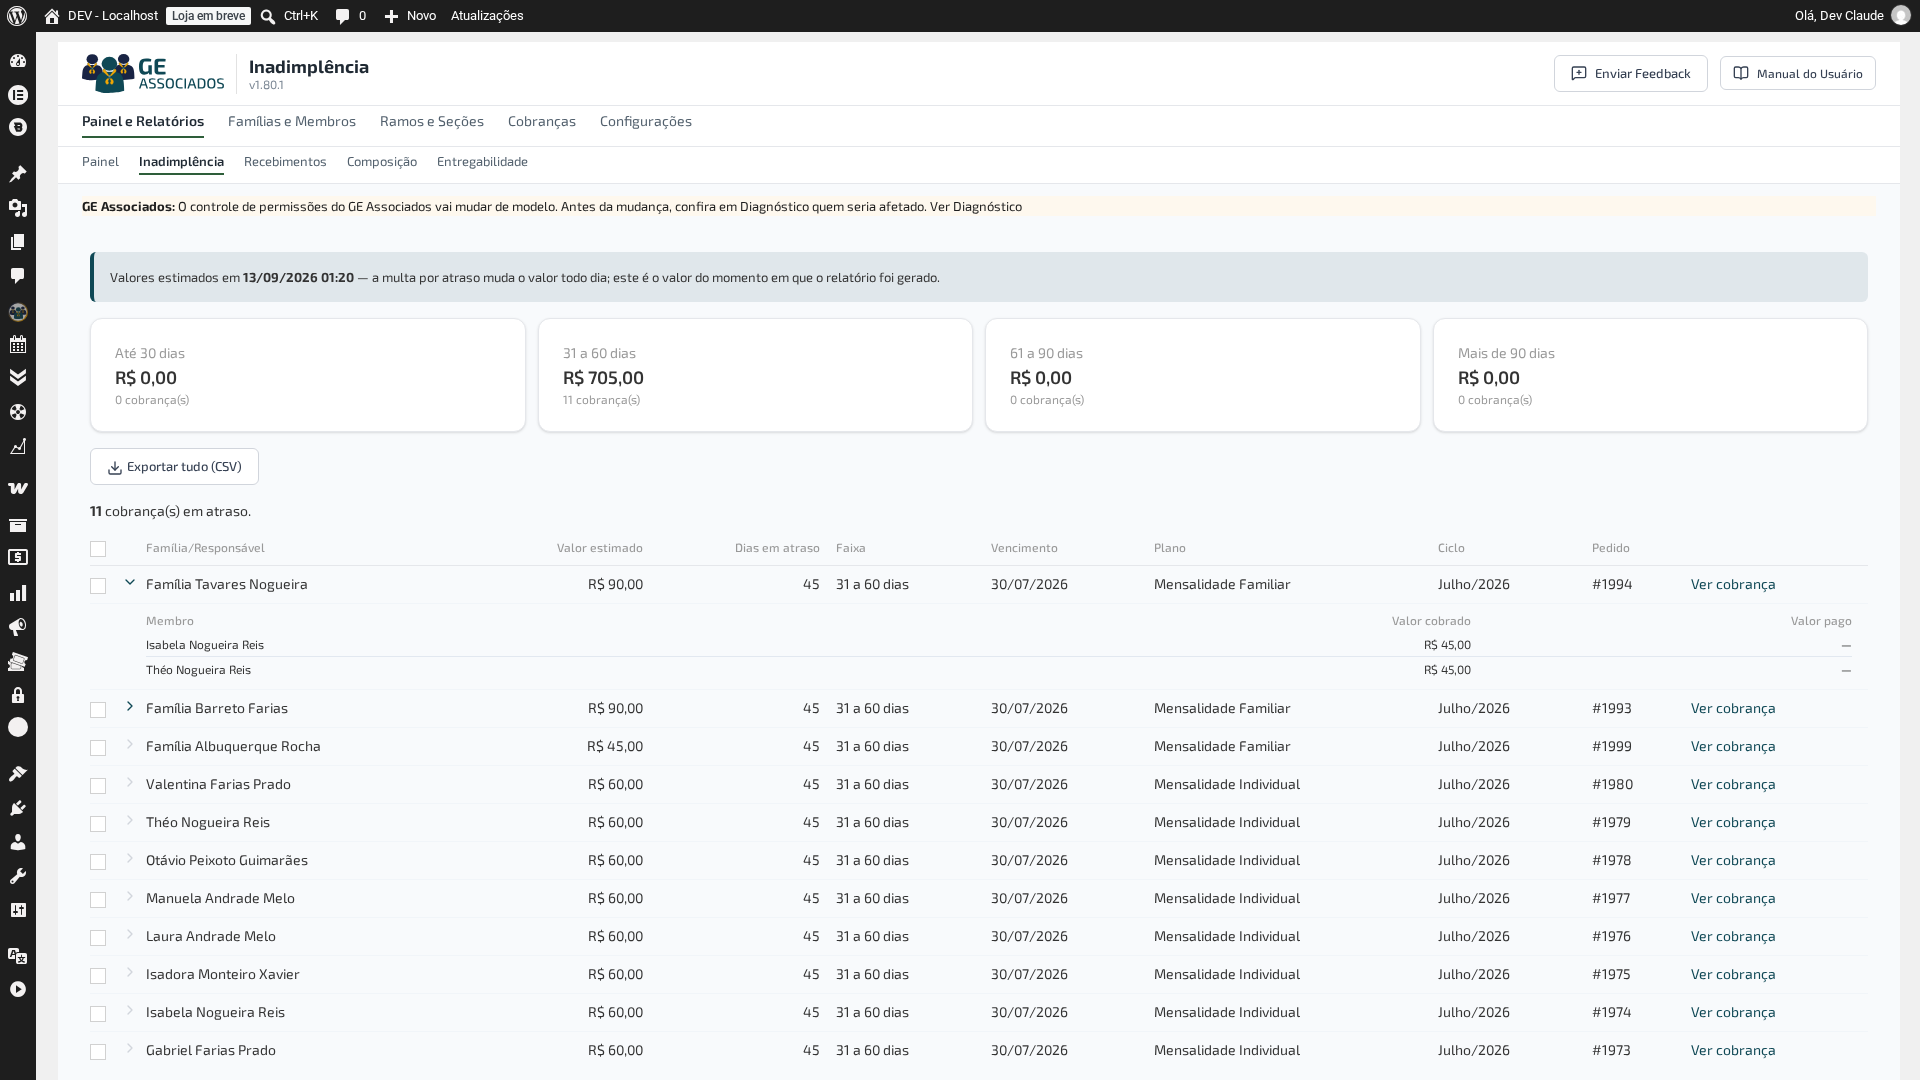
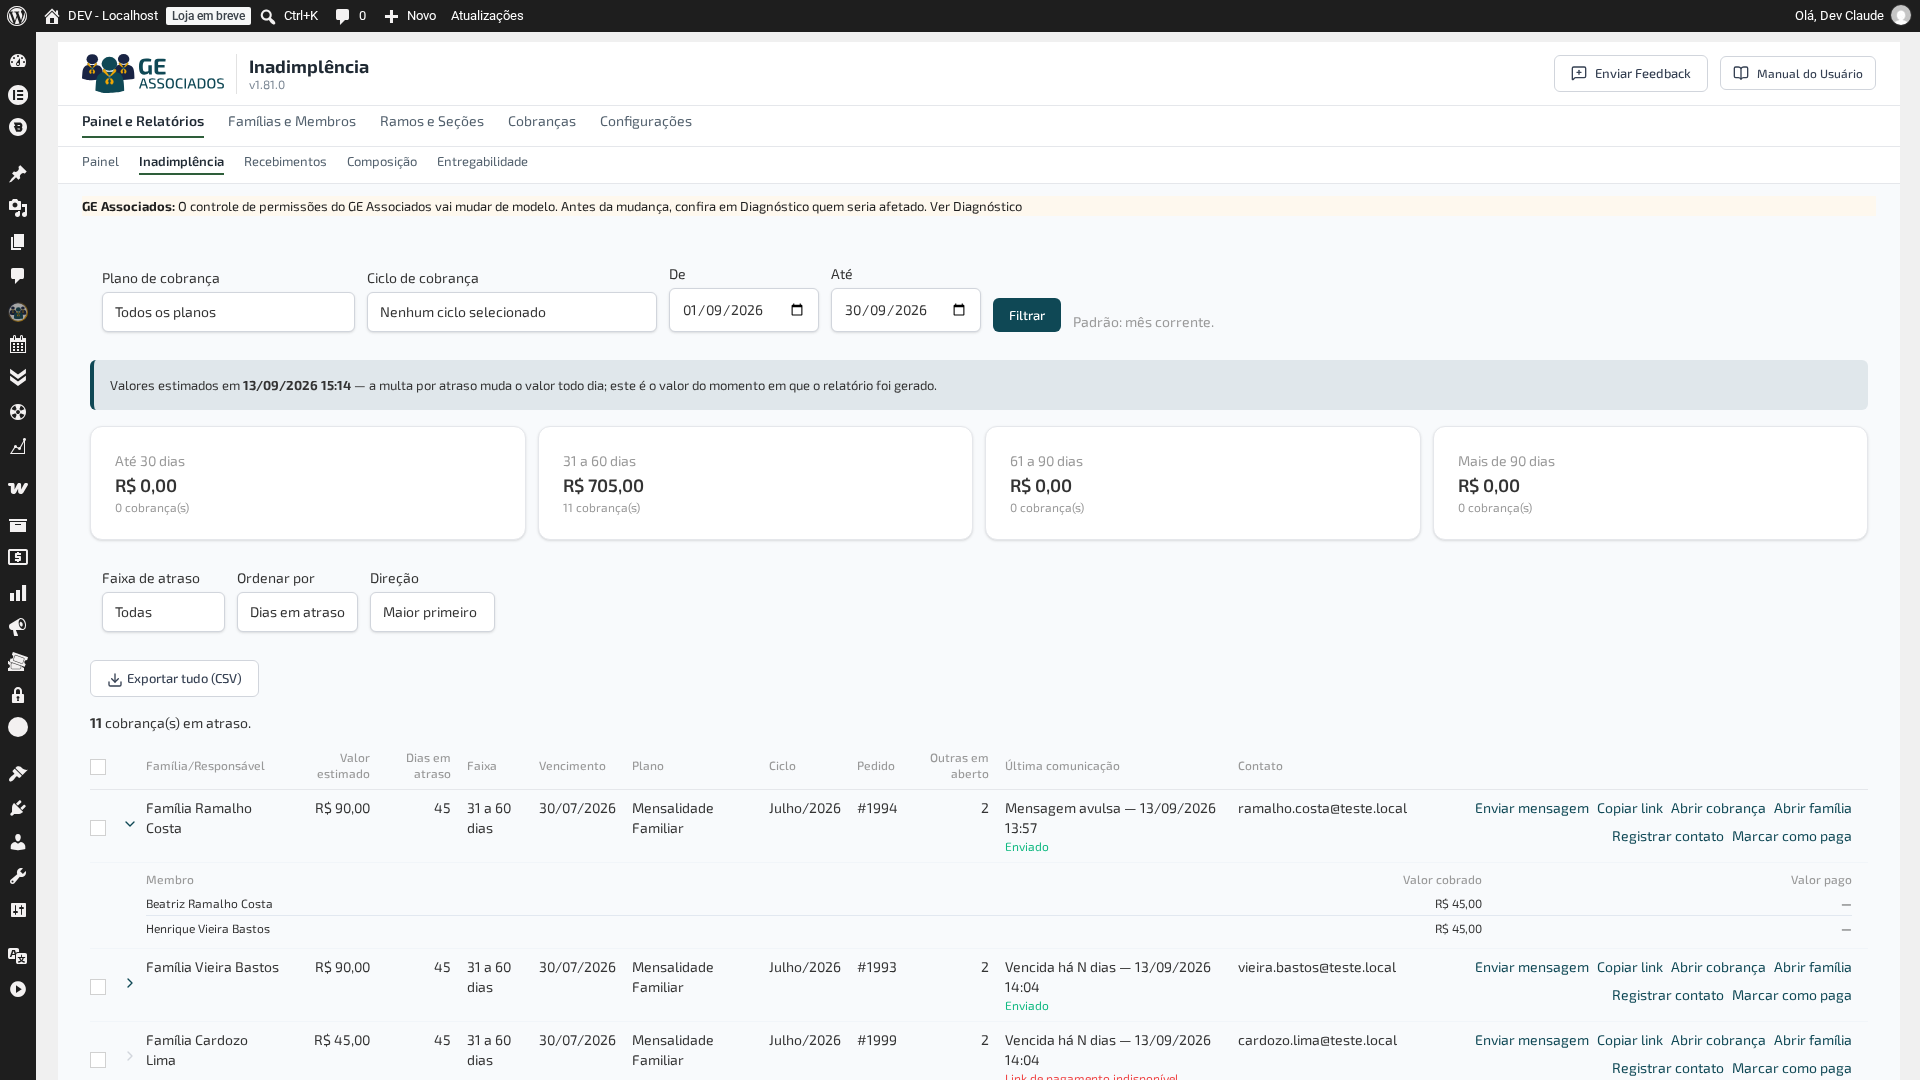
docs(manual): publica 2026-09-13

diff --git a/modulos/inadimplencia.md b/modulos/inadimplencia.md
@@ -8,19 +8,41 @@ nav_order: 2
 
 **Menu:** Painel e Relatórios → aba Inadimplência
 
-Lista de cobranças em atraso, para a tesouraria priorizar quem cobrar primeiro.
+Lista de cobranças em atraso, para a tesouraria priorizar quem cobrar primeiro — e agir
+direto na linha, sem precisar abrir a cobrança para cada ação.
 
 ![Relatório de inadimplência com valor estimado e faixa de atraso](/assets/img/relatorio-inadimplencia.png)
 
+## Por que isto importa
+
+Cobrar atraso é trabalho repetitivo: identificar quem deve, mandar um lembrete, anotar que
+ligou, marcar como paga quando o dinheiro chegar por fora do sistema. Antes, cada um desses
+passos exigia abrir a cobrança ou trocar de tela. Agora a lista de inadimplentes é o lugar
+onde você faz a rotina inteira — inclusive mandar um texto próprio para uma família, com os
+dados da cobrança dela já prontos.
+
+## Filtros
+
+- **Plano, ciclo e período** — o mesmo recorte compartilhado das outras abas de
+  Relatórios (veja [Painel](/modulos/painel/#o-que-você-vê)): filtrar aqui e trocar de aba
+  mantém a escolha.
+- Com um **período** escolhido (por data ou por ciclo), a lista mostra as cobranças **com
+  vencimento dentro daquele período que continuam sem pagamento hoje** — não é o histórico
+  de quem já esteve em atraso e já pagou depois. Sem período, é toda a inadimplência atual.
+
 ## O que você vê
 
-Cada linha traz o **valor estimado no dia da geração do relatório** — não é fixo, porque a
-multa por atraso muda a cada dia —, os **dias de atraso**, a **faixa de atraso**, o
-**vencimento**, o **plano**, o **ciclo** e o **pedido** (o número do pedido WooCommerce).
+Cada linha traz o **valor atualizado no dia** (não é fixo, porque a multa por atraso muda a
+cada dia), os **dias de atraso**, a **faixa de atraso**, o **vencimento**, o **plano**, o
+**ciclo**, o **pedido** (o número do pedido WooCommerce), **outras cobranças em aberto**
+da mesma família e a **última comunicação enviada**, com o contato usado.
 
-{: .note }
-Esta tela não tem filtro de período. Se você quer recortar a inadimplência por uma data
-específica, use [Recebimentos](/modulos/recebimentos/).
+{: .important }
+**"Enviado" na última comunicação quer dizer que o servidor aceitou o envio — não que a
+família já leu, nem que a mensagem chegou de fato à caixa de entrada.** Para saber se um
+envio específico realmente chegou ou falhou, confira em
+[Entregabilidade](/modulos/entregabilidade/). Quando a família não tem e-mail cadastrado, a
+coluna mostra **"Sem e-mail"** em vez de uma data.
 
 {: .note }
 Cobrança **[Sem valor a pagar](/modulos/cobrancas/#cobrança-sem-valor-a-pagar)** nunca
@@ -38,6 +60,87 @@ cobrado dele. Cobrança de **um membro só** continua linha simples, sem seta.
 Útil na hora de ligar para a família: em vez de "vocês devem R$ 90,00", você já sabe que
 são dois jovens, R$ 45,00 cada — e qual dos dois entrou na família depois, se um dos
 valores destoar do outro.
+
+## Ações por cobrança
+
+![Linha da lista de inadimplência com as ações disponíveis: enviar mensagem, copiar link, abrir cobrança, abrir família, registrar contato e marcar como paga](/assets/img/inadimplencia-acoes-linha.png)
+
+Cada linha tem, conforme a sua permissão:
+
+- **Enviar mensagem** — abre o modal de mensagem (veja a seção abaixo).
+- **Copiar link de pagamento** — cola direto no WhatsApp ou passa de viva voz.
+- **Registrar contato** — anota que você ligou, mandou mensagem por fora do sistema ou
+  conversou pessoalmente, sem disparar e-mail nenhum. Fica no histórico da cobrança.
+- **Marcar como paga** — a mesma ação, com a mesma confirmação, que já existe no detalhe da
+  cobrança (veja [Cobranças](/modulos/cobrancas/)).
+- **Abrir cobrança** — leva ao detalhe completo.
+- **Abrir família** — leva direto ao cadastro da família, **já em modo de edição**, e volta
+  para a Inadimplência com o filtro que você tinha ao sair.
+
+{: .note }
+Quem só tem permissão de **ver relatórios** enxerga a lista, mas não vê os botões que
+mudam alguma coisa (enviar mensagem, registrar contato, marcar como paga, abrir família
+para editar). É preciso permissão de **gerir cobranças** — se um botão que você esperava
+não aparece, é esse o motivo mais provável.
+
+### Enviar mensagem
+
+![Modal de enviar mensagem aberto, com o menu mostrando as três opções: lembrete de atraso, aviso formal e texto livre](/assets/img/inadimplencia-modal-mensagem.png)
+
+Três opções:
+
+- **Lembrete de atraso** — o modelo que já existe em
+  [Comunicação](/modulos/comunicacao/#editar-modelo), com pré-visualização antes de enviar.
+- **Aviso formal** — idem, o modelo de cobrança formal.
+- **Texto livre** — um texto seu, escrito na hora, para aquela família.
+
+O e-mail sai no mesmo layout dos demais (cabeçalho, rodapé com o contato do financeiro) e
+o **link de pagamento da cobrança é anexado automaticamente ao final** — você não precisa
+colar o link à mão. O envio fica registrado no histórico da cobrança e aparece em
+[Entregabilidade](/modulos/entregabilidade/) como qualquer outro.
+
+{: .important }
+**A mesma cobrança não recebe duas comunicações no mesmo dia**, mesmo vindas de fontes
+diferentes — um lembrete automático de manhã e uma tentativa de texto livre à tarde, por
+exemplo. A segunda tentativa é recusada, com aviso de que já saiu uma comunicação hoje para
+aquela cobrança. Em lote, a família cai na contagem de "pulados", não gera erro.
+
+#### O texto livre e as variáveis da cobrança
+
+![Campo de texto livre com a lista de variáveis disponíveis ao lado e a pré-visualização já substituída com os dados da cobrança](/assets/img/inadimplencia-texto-livre-variaveis.png)
+
+Ao lado do campo de texto livre fica a lista das **variáveis disponíveis** — as mesmas que
+os modelos de e-mail de [Comunicação](/modulos/comunicacao/#editar-modelo) já usam: nome
+curto do responsável, período, vencimento, lista de associados com valores, link de
+pagamento, dias em atraso, entre outras. Cada uma mostra, em linguagem simples, o que ela
+vira no texto final, com um exemplo.
+
+- **Clique numa variável** da lista para inserir no ponto onde o cursor está.
+- A **pré-visualização** mostra o texto já substituído, com os dados reais da cobrança
+  escolhida — não um exemplo genérico.
+- **Variável escrita errada ou desconhecida** é apontada enquanto você digita, e o botão
+  **Enviar** fica desabilitado até corrigir — o sistema nunca manda um `{algo}` cru para a
+  família.
+
+  ![Aviso de variável não reconhecida no texto livre, com o botão Enviar desabilitado até a correção](/assets/img/inadimplencia-texto-livre-erro.png)
+- Mandando a mesma mensagem para **várias cobranças de uma vez** (envio em lote), cada
+  família recebe o texto com os **próprios dados** — o texto é o mesmo, as variáveis não.
+
+{: .tip }
+Bom para casos que não cabem num modelo padrão: uma combinação específica com aquela
+família, um prazo negociado, uma explicação pontual. Para o que se repete, prefira os
+modelos de [Comunicação](/modulos/comunicacao/) — editar um modelo vale para toda cobrança
+daquele tipo, o texto livre vale só para aquele envio.
+
+## Ações em lote
+
+![Confirmação de envio em lote, mostrando a quantidade de cobranças selecionadas antes de disparar](/assets/img/inadimplencia-lote-confirmacao.png)
+
+Selecione várias famílias e aplique a mesma ação — enviar mensagem ou reenviar — de uma
+vez. Antes de sair, a tela mostra **quantas famílias serão afetadas** e pede confirmação.
+Depois de processar, o resultado vem **família por família**: quem recebeu, quem foi
+pulado (por exemplo, por já ter recebido uma comunicação hoje) e quem falhou — nunca um
+"pronto" genérico que esconde falha parcial.
 
 ## O que você faz aqui
 

diff --git a/modulos/entregabilidade.md b/modulos/entregabilidade.md
@@ -8,9 +8,16 @@ nav_order: 5
 
 **Menu:** Painel e Relatórios → aba Entregabilidade
 
-Mostra, por ciclo de cobrança, se os e-mails realmente chegaram aos responsáveis.
+Mostra, por ciclo de cobrança, se os e-mails realmente chegaram aos responsáveis — e deixa
+corrigir e reenviar direto daqui, sem precisar caçar cada caso por fora.
 
 ![Relatório de entregabilidade por ciclo, com as cinco situações de envio somadas no topo e detalhadas por ciclo na tabela](/assets/img/relatorio-entregabilidade.png)
+
+## Filtros
+
+**Plano, ciclo e período** — o mesmo recorte compartilhado das outras abas de Relatórios
+(veja [Painel](/modulos/painel/#o-que-você-vê)): filtrar aqui e trocar de aba mantém a
+escolha.
 
 ## O que você vê
 
@@ -39,20 +46,51 @@ segurado de propósito — não faria sentido pedir que alguém pague sem oferec
 oferecer um link que não funciona mais. O financeiro recebe um aviso por e-mail quando
 isso acontece, e o Painel também sinaliza.
 
-### Cada número abre a lista de quem o compõe
+## Comunicações com problema
 
-<!-- CAPTURA PENDENTE: entregabilidade-detalhe-situacao (desktop) — a lista
-     de destinatários por trás de um número da tabela, com o motivo real da
-     falha em cada linha. Não capturado nesta sessão: agente em background,
-     sem sessão autenticada — o login é do usuário. -->
+![Lista "Comunicações com problema" sempre visível, com o motivo em linguagem simples e a ação sugerida](/assets/img/entregabilidade-lista-problemas-desktop.png)
 
-Clique em qualquer número da tabela para abrir a lista de quem está por trás dele — nome,
-cobrança e o **motivo real** daquela falha específica, em vez de precisar cruzar a tabela
-resumida com a lista de cobranças por fora.
+![A mesma lista "Comunicações com problema" em celular](/assets/img/entregabilidade-lista-problemas-mobile.png)
+
+Abaixo dos cartões e da tabela por ciclo, a lista **Comunicações com problema** fica
+**sempre visível** — antes era preciso clicar num número para descobrir que ela existia.
+Cada linha traz o nome, a cobrança, o **motivo em linguagem simples** (não o texto cru que
+o servidor de e-mail devolveu) e uma **ação sugerida**: corrigir cadastro ou tentar de
+novo, conforme o caso.
+
+{: .tip }
+Se um responsável reclamar que não recebeu a cobrança, esta lista é o primeiro lugar a
+olhar — o motivo já vem traduzido, sem precisar interpretar erro de servidor de e-mail.
+
+### Cartões e tabela filtram a lista
+
+Clique em qualquer **cartão** do topo ou em qualquer **número da tabela por ciclo** para
+que a lista abaixo mostre só aquele grupo — por exemplo, só as falhas de um ciclo
+específico, ou só os itens "sem destinatário" de todos os ciclos. Um botão **Limpar
+filtro** volta a mostrar tudo.
+
+### Corrigir e-mail
+
+Na linha de um item **sem destinatário** ou com e-mail claramente errado, o botão
+**Corrigir e-mail** leva direto ao cadastro do responsável ou do membro **já em modo de
+edição** — complete o e-mail e volte para a Entregabilidade, no mesmo filtro em que você
+estava, sem precisar navegar até a família por fora.
+
+## Reenvio em lote
+
+![Confirmação de reenvio em lote, mostrando quantas comunicações serão reenviadas e quantas ficarão de fora, com o motivo](/assets/img/entregabilidade-lote-confirmacao.png)
+
+Selecione várias linhas (ou use "selecionar todos os que falharam") e reenvie de uma vez.
+Antes de sair, a confirmação diz **quantas comunicações serão reenviadas e quantas ficarão
+de fora** — por exemplo, itens sem destinatário, que não têm para onde reenviar. Depois de
+processar, o resultado aparece **item por item**: enviados, recusados por alguma regra (como
+a de não repetir no mesmo dia — veja [Inadimplência](/modulos/inadimplencia/#enviar-mensagem))
+e falhos.
 
 ## O que você faz aqui
 
-- **Filtro De/Até**, seleção múltipla e exportação em CSV.
+- **Seleção múltipla** e **exportação em CSV** — do total, dos filtrados pelos cartões ou
+  só da seleção.
 
 {: .note }
 A exportação traz **uma linha por tentativa de envio**, não só o resumo por ciclo — se um

diff --git a/novidades.md b/novidades.md
@@ -8,6 +8,36 @@ nav_order: 13
 Um resumo, em linguagem simples, do que mudou nas versões mais recentes — o que interessa
 para quem usa o plugin no dia a dia, não o registro técnico completo.
 
+## O filtro escolhido acompanha você entre as abas de Relatórios
+
+Escolheu um plano, um ciclo ou um período no Painel? A mesma escolha agora vale em
+Inadimplência, Recebimentos, Composição e Entregabilidade — trocar de aba não zera o
+filtro, e ele sobrevive a recarregar a página. Com um ciclo escolhido, as datas somem e a
+tela mostra "Todo o ciclo" (ou "Mês de vencimento do ciclo", em Composição); Recebimentos
+passa a mostrar só os lançamentos daquele ciclo. E os cartões do Painel passam a dizer "do
+período" em vez de "do mês", quando o período escolhido não é o mês corrente. Veja
+[Painel](/modulos/painel/#o-que-você-vê).
+
+## Inadimplência ganha ações direto na lista
+
+A lista de inadimplentes agora mostra quantas outras cobranças cada família tem em aberto
+e a última comunicação enviada. E, sem sair da tela, dá para **enviar mensagem** (lembrete
+de atraso, aviso formal ou um texto seu, com as informações da cobrança inseridas
+automaticamente), **copiar o link de pagamento**, **registrar um contato feito por fora do
+sistema**, **marcar como paga** e **abrir a família já em edição** — inclusive em lote,
+para várias famílias de uma vez, com confirmação antes e o resultado de cada uma ao final.
+A mesma cobrança não recebe duas comunicações no mesmo dia. Veja
+[Inadimplência](/modulos/inadimplencia/#ações-por-cobrança).
+
+## Entregabilidade mostra a lista de problemas sem precisar clicar
+
+A lista de comunicações com problema agora fica sempre visível, com o motivo em linguagem
+simples e uma sugestão do que fazer — antes era preciso descobrir que dava para clicar num
+número. Os cartões e a tabela por ciclo filtram essa lista, "Corrigir e-mail" leva direto
+ao cadastro da pessoa em edição, e o reenvio em lote mostra quantas comunicações serão
+reenviadas antes de confirmar. Veja
+[Entregabilidade](/modulos/entregabilidade/#comunicações-com-problema).
+
 ## Permissões podem ser convertidas para o modelo dos demais plugins da casa
 
 Quem administra o plugin agora encontra, em [Diagnóstico](/modulos/diagnostico/#converter-o-controle-de-permissões),

diff --git a/modulos/painel.md b/modulos/painel.md
@@ -34,6 +34,30 @@ relatório separado.
   analisando.
 - **Cobranças críticas em aberto**, numa tabela com link direto para cada uma.
 
+{: .tip }
+**O recorte que você escolhe aqui vale para as outras abas de Relatórios também.** Filtrou
+por um plano e um ciclo no Painel e foi olhar a Inadimplência? A tela já abre com o mesmo
+recorte — não precisa escolher de novo. Isso vale trocando entre Painel, Inadimplência,
+Recebimentos, Composição e Entregabilidade, e sobrevive a recarregar a página. Antes, cada
+aba esquecia o filtro da anterior.
+
+![Painel com um ciclo escolhido: os campos De e Até somem e a tela mostra "Todo o ciclo" no lugar deles](/assets/img/painel-todo-o-ciclo.png)
+
+{: .note }
+**Escolheu um ciclo?** Os campos **De** e **Até** ficam vazios e a tela mostra **"Todo o
+ciclo"** no lugar deles — o recorte passa a ser o ciclo inteiro, não um intervalo de datas.
+Isso vale no Painel e nas demais abas de Relatórios. A exceção é a
+[Composição](/modulos/composicao/), que não é sobre cobranças: lá, com um ciclo escolhido,
+o período usado é o **mês de vencimento do ciclo**, e a tela avisa isso explicitamente.
+
+{: .note }
+**Escolheu um período diferente do mês corrente** (por data ou por ciclo)? Os três
+cartões que mudam com o filtro passam a dizer **"Recebido no período"**, **"Previsto até o
+fim do período"** e **"Taxa de pagamento do período"**, em vez de "do mês" — para não
+sugerir um mês que não é o que está sendo mostrado. Filtrando só por plano, sem mexer no
+período, os cartões continuam falando "do mês", porque o servidor mantém o mês corrente
+nesse caso.
+
 {: .note }
 Contadores e gráfico não mudam com o filtro de plano ou ciclo — só os indicadores
 financeiros do topo mudam. Se parecer que o gráfico "não respeitou o filtro", é esse o

diff --git a/modulos/composicao.md b/modulos/composicao.md
@@ -19,6 +19,12 @@ voltado para a coordenação e a diretoria, não para a tesouraria.
 Um resumo geral e uma tabela só de totais por ramo, pensada especificamente para colar
 numa ata de reunião de diretoria.
 
+{: .note }
+Esta aba não é sobre cobranças, então um **ciclo** escolhido no filtro compartilhado (veja
+[Painel](/modulos/painel/#o-que-você-vê)) não vira um recorte de datas do ciclo, como nas
+outras abas: aqui o período usado é o **mês de vencimento do ciclo**, e a tela mostra esse
+mês em vez de "Todo o ciclo".
+
 ## O que você faz aqui
 
 - **Filtro De/Até**, padrão mês corrente.

diff --git a/modulos/recebimentos.md b/modulos/recebimentos.md
@@ -34,6 +34,12 @@ diz **quem** pesou quanto no total — e com mais de um ciclo por ano, a coluna 
 que diz a que período aquele recebimento pertence, sem você ter que abrir o pedido no
 WooCommerce para descobrir.
 
+{: .note }
+Escolheu um **ciclo** no filtro compartilhado das abas de Relatórios (veja
+[Painel](/modulos/painel/#o-que-você-vê)) em vez de um período por data? A tela mostra só
+os lançamentos **daquele ciclo** — antes mostrava o histórico inteiro, mesmo com um ciclo
+escolhido.
+
 ## O que você faz aqui
 
 - **Filtro De/Até**, obrigatório — o padrão é o mês corrente.
